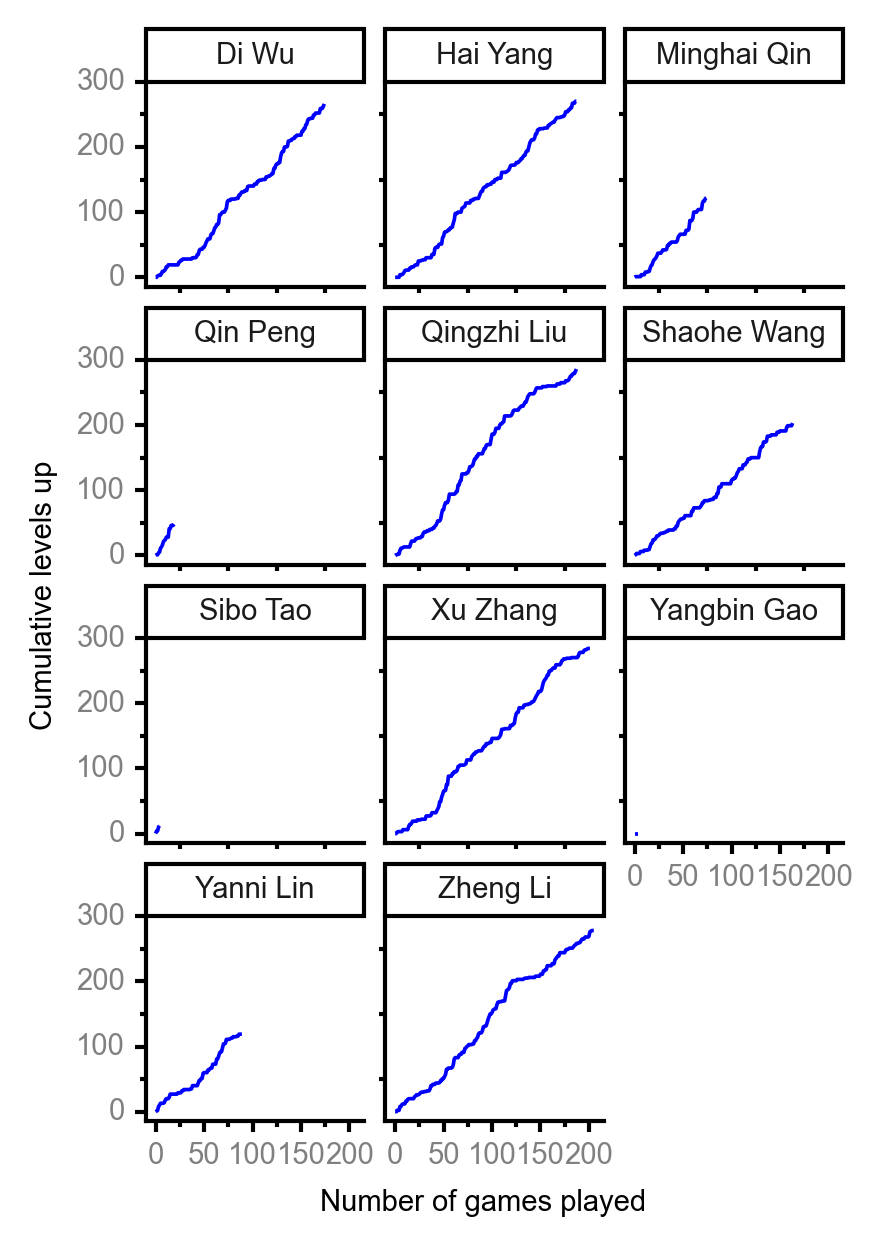
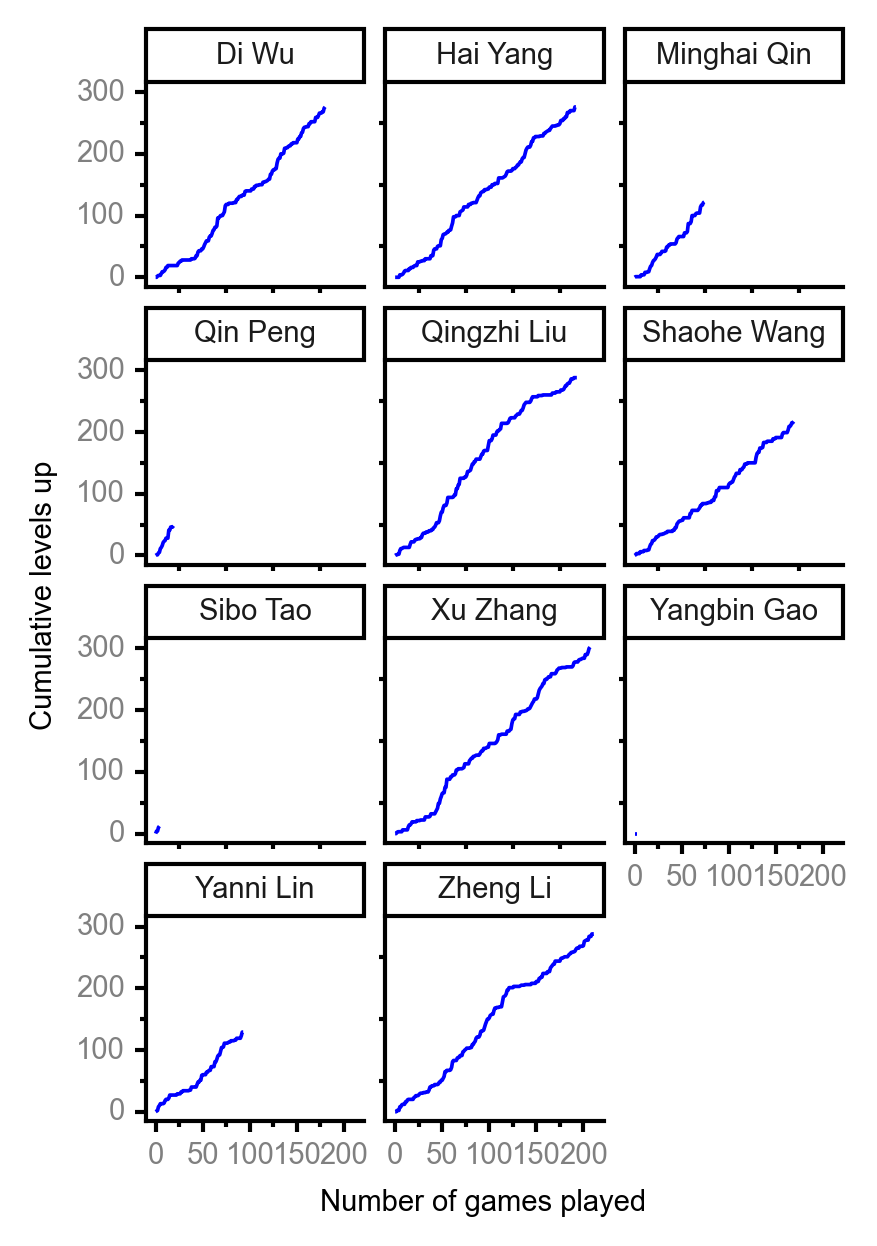
update player stats

diff --git a/player_stats.md b/player_stats.md
@@ -3,7 +3,7 @@ layout: player_stats
 title: Player Statistics
 author: Shaohe Wang
 author_url: https://scholar.google.com/citations?user=R_-kJV4AAAAJ&hl=en
-date: 2021-03-20
+date: 2021-03-21
 ---
 
 #### [Spreadsheet](https://docs.google.com/spreadsheets/d/1So3PBr9gV3I0LzApZOgJlQew2QjM1wAiWhR50rAnHRg/edit#gid=2137801449)
@@ -14,14 +14,14 @@ date: 2021-03-20
 
 | <br><br><br>Rank | <br><br><br>Player | <br> Lifetime <br> levels <br> up | <br><br> Winning <br> rate | <br> Average <br> levels <br> up | <br> Total <br> games <br> played | Games <br> played <br> as <br> MVP | Games <br> played <br> as <br> dealer | N_games <br> short <br> staffed <br> as dealer | Winning <br> rate <br> as <br> dealer |
 |:---:|:---:|:---:|:---:|:---:|:---:|:---:|:---:|:---:|:---:|
-| 1 | Xu <br> Zhang | 290 | 52.5% | 2.74 | 202 | 11 | 37 | 1 | 51.4% |
-| 2 | Qingzhi <br> Liu | 286 | 51.6% | 2.95 | 188 | 11 | 33 | 3 | 48.5% |
-| 3 | Zheng <br> Li | 284 | 54.9% | 2.51 | 206 | 6 | 32 | 0 | 62.5% |
-| 4 | Hai <br> Yang | 270 | 50.5% | 2.84 | 188 | 13 | 34 | 1 | 52.9% |
-| 5 | Di <br> Wu | 266 | 48.0% | 3.17 | 175 | 11 | 30 | 0 | 40.0% |
-| 6 | Shaohe <br> Wang | 209 | 43.9% | 2.90 | 164 | 7 | 26 | 2 | 38.5% |
-| 7 | Minghai <br> Qin | 123 | 53.3% | 3.08 | 75 | 1 | 11 | 1 | 72.7% |
-| 8 | Yanni <br> Lin | 119 | 45.6% | 2.90 | 90 | 10 | 8 | 2 | 37.5% |
+| 1 | Xu <br> Zhang | 305 | 52.9% | 2.77 | 208 | 12 | 38 | 1 | 50.0% |
+| 2 | Zheng <br> Li | 288 | 54.2% | 2.50 | 212 | 6 | 33 | 0 | 60.6% |
+| 3 | Qingzhi <br> Liu | 288 | 51.0% | 2.91 | 194 | 11 | 34 | 4 | 47.1% |
+| 4 | Hai <br> Yang | 279 | 50.8% | 2.85 | 193 | 13 | 35 | 1 | 51.4% |
+| 5 | Di <br> Wu | 276 | 48.1% | 3.17 | 181 | 11 | 31 | 0 | 41.9% |
+| 6 | Shaohe <br> Wang | 220 | 44.7% | 2.89 | 170 | 7 | 27 | 2 | 40.7% |
+| 7 | Yanni <br> Lin | 129 | 45.7% | 3.00 | 94 | 10 | 8 | 2 | 37.5% |
+| 8 | Minghai <br> Qin | 123 | 53.3% | 3.08 | 75 | 1 | 11 | 1 | 72.7% |
 | 9 | Qin <br> Peng | 51 | 75.0% | 3.40 | 20 | 2 | 2 | 0 | 100.0% |
 | 10 | Sibo <br> Tao | 14 | 80.0% | 3.50 | 5 | 0 | 0 | 0 | 0.0% |
 | 11 | Yangbin <br> Gao | 0 | 0.0% | 0.00 | 4 | 0 | 0 | 0 | 0.0% |
